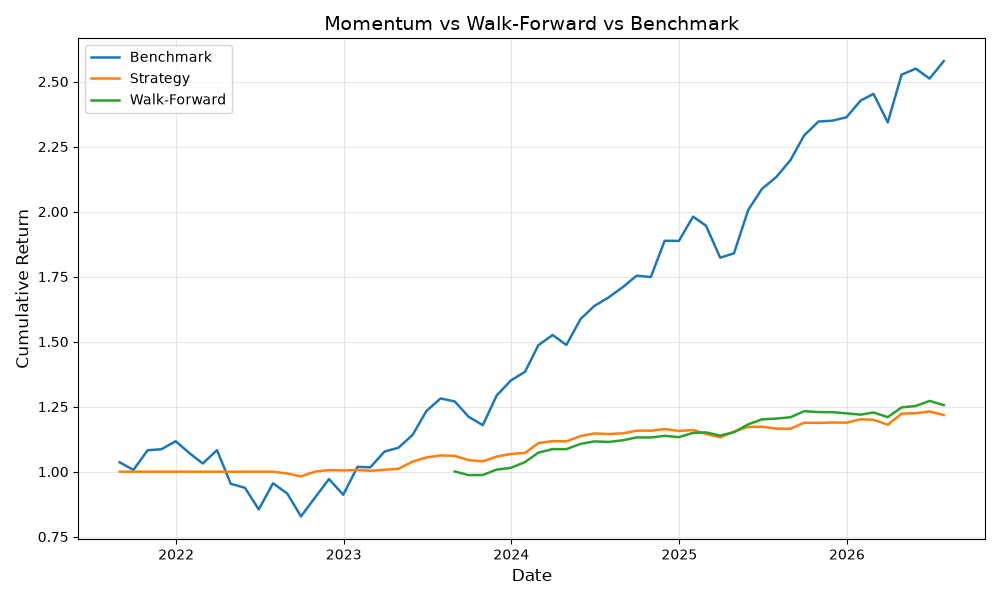
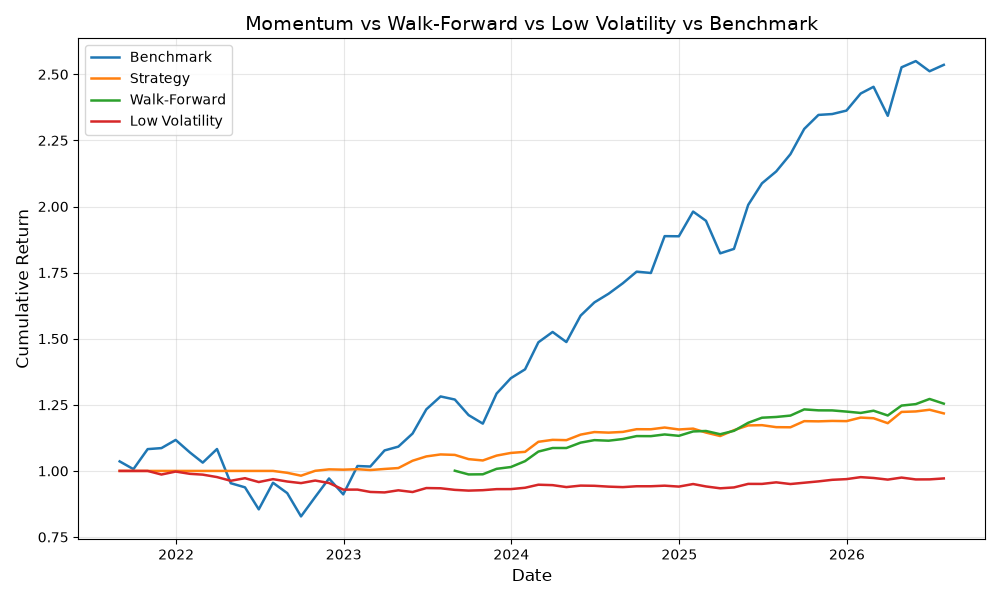
step 5 — update README with low volatility results

diff --git a/metrics.py b/metrics.py
@@ -17,7 +17,10 @@ def max_drawdown(portfolio_values):
  
     return worst_drawdown
  
-def performance_table(strategy_returns, benchmark_returns, wf_returns = None, years = 5):
+def performance_table(strategy_returns, benchmark_returns, wf_returns = None, vol_returns = None, years = 5):
+    cum_wf = None
+    cum_vol = None
+    
     cum_strategy  = (1 + strategy_returns.dropna()).cumprod()
     cum_benchmark = (1 + benchmark_returns.dropna()).cumprod()
  
@@ -40,16 +43,26 @@ def performance_table(strategy_returns, benchmark_returns, wf_returns = None, ye
     })
 
     if wf_returns is not None:
-         cum_wf = (1 + wf_returns.dropna()).cumprod()
+        cum_wf = (1 + wf_returns.dropna()).cumprod()
  
-         total_return_wf = cum_wf.iloc[-1] - 1
-         annualised_return_wf = (cum_wf.iloc[-1] ** (1 / years)) - 1
+        total_return_wf = cum_wf.iloc[-1] - 1
+        annualised_return_wf = (cum_wf.iloc[-1] ** (1 / years)) - 1
 
-         sharpe_wf = sharpe_ratio(wf_returns.dropna())
-         max_drawdown_wf = max_drawdown(cum_wf)
+        sharpe_wf = sharpe_ratio(wf_returns.dropna())
+        max_drawdown_wf = max_drawdown(cum_wf)
  
-         table['Walk-Forward'] = [total_return_wf, annualised_return_wf, sharpe_wf, max_drawdown_wf]
+        table['Walk-Forward'] = [total_return_wf, annualised_return_wf, sharpe_wf, max_drawdown_wf]
 
-         return table, cum_strategy, cum_benchmark, cum_wf
+    if vol_returns is not None:
+        cum_vol = (1 + vol_returns.dropna()).cumprod()
 
-    return table, cum_strategy, cum_benchmark
+        total_return_vol = cum_vol.iloc[-1] - 1
+        annualised_return_vol = (cum_vol.iloc[-1] ** (1 / years)) - 1
+
+        sharpe_vol = sharpe_ratio(vol_returns.dropna())
+        max_drawdown_vol = max_drawdown(cum_vol)
+
+        table['Volatility'] = [total_return_vol, annualised_return_vol, sharpe_vol, max_drawdown_vol]
+
+
+    return table, cum_strategy, cum_benchmark, cum_wf, cum_vol

diff --git a/main.py b/main.py
@@ -1,5 +1,5 @@
 from data import get_prices
-from strategy import run_momentum, walk_forward_test
+from strategy import run_momentum, walk_forward_test, run_low_vol
 from metrics import performance_table
 from plotting import plot_performance
  
@@ -15,8 +15,9 @@ monthly_prices, monthly_returns = get_prices(tickers, period = '5y')
 strategy_returns = run_momentum(monthly_prices, monthly_returns)
 benchmark_returns = monthly_returns.mean(axis = 1)
 wf_returns = walk_forward_test(monthly_prices, monthly_returns)
+vol_returns = run_low_vol(monthly_returns)
 
-table, cum_strategy, cum_benchmark, cum_wf = performance_table(strategy_returns, benchmark_returns, wf_returns)
+table, cum_strategy, cum_benchmark, cum_wf, cum_vol = performance_table(strategy_returns, benchmark_returns, wf_returns, vol_returns)
 print(table)
 
-plot_performance(cum_benchmark, cum_strategy = cum_strategy, cum_wf = cum_wf, title = 'Momentum vs Walk-Forward vs Benchmark', filename = 'performance_v1.png')
+plot_performance(cum_benchmark, cum_strategy = cum_strategy, cum_wf = cum_wf, cum_vol = cum_vol, title = 'Momentum vs Walk-Forward vs Low Volatility vs Benchmark', filename = 'performance_v1.png')

diff --git a/plotting.py b/plotting.py
@@ -2,7 +2,7 @@ import matplotlib.pyplot as plt
 import os
  
  
-def plot_performance(cum_benchmark, cum_strategy = None, cum_wf = None, strategy_label = 'Strategy', title = 'Strategy vs Benchmark Cumulative Performance', filename = 'performance.png'):
+def plot_performance(cum_benchmark, cum_strategy = None, cum_wf = None, cum_vol = None, strategy_label = 'Strategy', title = 'Strategy vs Benchmark Cumulative Performance', filename = 'performance.png'):
     fig, ax = plt.subplots(figsize = (10, 6))
  
     ax.plot(cum_benchmark, label = 'Benchmark', linewidth = 1.8)
@@ -12,6 +12,9 @@ def plot_performance(cum_benchmark, cum_strategy = None, cum_wf = None, strategy
  
     if cum_wf is not None:
         ax.plot(cum_wf, label = 'Walk-Forward', linewidth = 1.8)
+ 
+    if cum_vol is not None:
+        ax.plot(cum_vol, label = 'Low Volatility', linewidth = 1.8)
  
     ax.set_title(title, fontsize = 14)
     ax.set_xlabel('Date', fontsize = 12)

diff --git a/README.md b/README.md
@@ -1,68 +1,79 @@
-# Equity Backtesting Engine — v1 (In Progress)
- 
+# Equity Backtesting Engine — v1
+
 This is a momentum-based equity backtesting engine built in Python. It works by buying the top 3 performing stocks by a 12-month return each month and it rebalances monthly.
- 
+
 ## How it works
- 
+
 Each month, the strategy ranks stocks by their 12-month returns. The top 3 performing stocks are then bought equally weighted and held for a month. At the end of the month, the strategy rebalances by selling the current holdings and buying the new top 3 performing stocks, and a 0.1% transactional cost is applied each time holdings change.
- 
+
 The signal is shifted by one month to avoid lookahead bias, so last month's momentum would decide this month's holdings.
- 
+
 **New in v1 — Walk-Forward Testing:** rather than training and testing the signal on the same fixed period, the strategy now trains on a rolling 24-month window and tests on the following 6 months, sliding forward through the entire dataset. This simulates genuinely not knowing the future at each decision point, giving a more honest measure of whether the momentum signal holds up out-of-sample.
- 
-**Coming next in v1 — Low Volatility Signal:** a second, independent signal ranking stocks by 30-day rolling volatility, to be tested alongside momentum before the two are properly combined into a composite ranking in v2.
- 
+
+**New in v1 — Low Volatility Signal:** a second, independent signal ranking stocks by rolling volatility, holding the 3 least volatile stocks each month instead of the highest momentum stocks. This is tested independently alongside momentum, before the two are properly combined into a composite ranking in v2.
+
 ## Universe
- 
+
 **v0 (10 stocks):** AAPL, MSFT, NVDA, AMZN, GOOGL, META, TSLA, JPM, V, NFLX (Apple, Microsoft, Nvidia, Amazon, Google, Meta, Tesla, JP Morgan, Visa, Netflix)
- 
+
 **v1 (20 stocks):** expanded to include JNJ, PFE, XOM, CAT, COST, WMT, BA, GE, PG, AXP (Johnson & Johnson, Pfizer, Exxon Mobil, Caterpillar, Costco, Walmart, Boeing, General Electric, Procter & Gamble, American Express)
- 
+
 ## v0 Results (June 2023 – June 2026)
- 
+
 | Metric             | Strategy | Benchmark |
 |--------------------|----------|-----------|
 | Total Return       | 15.7%    | 111.9%    |
 | Annualised Return  | 5.0%     | 28.5%     |
 | Sharpe Ratio       | 0.86     | 1.46      |
 | Max Drawdown       | -5.4%    | -13.2%    |
- 
+
 ![v0 Performance](performance_v0.png)
- 
-## v1 Results So Far (5 years, 20 stocks)
- 
-| Metric             | Strategy | Benchmark | Walk-Forward |
-|--------------------|----------|-----------|---------------|
-| Total Return        | 21.8%    | 157.9%    | 25.6%          |
-| Annualised Return    | 4.0%     | 20.9%     | 4.7%           |
-| Sharpe Ratio         | 1.08     | 1.16      | 1.83           |
-| Max Drawdown          | -2.8%    | -25.9%    | -1.9%          |
- 
+
+## v1 Results (July 2021 – June 2026)
+
+| Metric             | Strategy | Benchmark | Walk-Forward | Low Volatility |
+|--------------------|----------|-----------|---------------|-----------------|
+| Total Return        | 21.8%    | 153.6%    | 25.4%          | -2.8%            |
+| Annualised Return    | 4.0%     | 20.5%     | 4.6%           | -0.6%            |
+| Sharpe Ratio         | 1.08     | 1.14      | 1.81           | -0.19            |
+| Max Drawdown          | -2.8%    | -25.9%    | -1.9%          | -8.1%            |
+
 ![v1 Performance](performance_v1.png)
- 
+
 ## Observations
- 
+
 **v0 Observations**
- 
+
 The momentum strategy significantly underperformed the equal-weight benchmark over the 3-year period (15.7% vs 111.9% total return). However, the strategy had a considerably lower max drawdown (-5.4% vs -13.2%), suggesting it was more conservative in avoiding large losses.
- 
+
 The Sharpe ratio (0.86) indicates the strategy generated modest risk-adjusted returns but still fell short of the benchmark (1.46). This is likely due to the limited universe of 10 stocks and the simple 12-month momentum signal without additional filters.
- 
-**v1 Observations**
- 
-Expanding the universe to 20 stocks and running over 5 years, the in-sample momentum strategy still underperforms the benchmark in raw returns (21.8% vs 157.9%), but continues to show a considerably lower max drawdown (-2.8% vs -25.9%) — the strategy trades return for stability.
- 
-The walk-forward out-of-sample results are the more interesting finding here. Despite only having access to information available at each point in time, the walk-forward strategy actually achieved a higher Sharpe ratio (1.83) than both the in-sample strategy (1.08) and the benchmark (1.16), alongside the lowest max drawdown of the three (-1.9%). This suggests the momentum signal is not simply overfitted to one fixed historical period — it holds up reasonably well when forced to make decisions using only past information, which is a genuinely encouraging sign for the strategy's robustness.
- 
-That said, both the strategy and walk-forward versions still lag the benchmark's raw returns significantly. This is likely because momentum alone is a weak standalone signal, and a 20-stock universe with only one factor leaves a lot of alpha on the table compared to simply holding the market. The low volatility signal currently in progress will test whether a second factor improves this picture.
- 
+
+**v1 Momentum Observations**
+
+Expanding the universe to 20 stocks and running over 5 years, the in-sample momentum strategy still underperforms the benchmark in raw returns (21.8% vs 157.9%), but continues to show a considerably lower max drawdown (-2.8% vs -25.9%). The strategy trades return for stability.
+
+That said, the strategy still lags the benchmark's raw returns significantly. This is likely because momentum alone is a weak standalone signal, and a 20-stock universe with only one factor leaves a lot of alpha on the table compared to simply holding the market.
+
+**Walk-Forward Observations**
+
+The walk-forward out-of-sample results are the more interesting finding here. Despite only having access to information available at each point in time, the walk-forward strategy actually achieved a higher Sharpe ratio (1.81) than both the in-sample strategy (1.08) and the benchmark (1.14), alongside the lowest max drawdown of the three (-1.9%). This suggests the momentum signal is not simply overfitted to one fixed historical period, it holds up reasonably well when forced to make decisions using only past information, which is a genuinely encouraging sign for the strategy's robustness.
+
+**Low Volatility Observations**
+
+The low volatility signal, tested on its own, performed poorly across every metric, a negative total return (-2.8%), a negative Sharpe ratio (-0.19), and the second-worst max drawdown of the four results (-8.1%). Unlike momentum, holding the least volatile stocks each month did not generate positive risk-adjusted returns in isolation over this period.
+
+A likely explanation is that low volatility on its own is not a return-generating signal, because it's a risk-reducing one. Stocks with low rolling volatility are not necessarily good investments, they are simply stable ones, and stability alone doesn't guarantee positive performance, particularly in a period where the broader benchmark was driven by strong growth in a small number of higher-volatility stocks. The 3-month rolling window may also be too short to estimate volatility reliably, introducing noise into which stocks get selected each month.
+
+This result doesn't suggest low volatility is a bad concept, but it does suggest it isn't useful as a standalone strategy in this universe and timeframe. It reinforces why low volatility is typically combined with a genuine return-generating signal like momentum, rather than used alone, and makes the v2 composite signal a genuinely important next test rather than an assumed improvement.
+
 ## How to run
- 
+
 pip install yfinance pandas matplotlib
- 
+
 python main.py
- 
-## What's next
- 
-- Finish the low volatility signal and test it independently alongside momentum (v1)
-- Combine momentum and low volatility into a proper composite signal, add a value factor, and run factor regressions once the Probability & Statistics module is complete (v2)
+
+## What's next (v2)
+
+- Combine momentum and low volatility into a proper composite signal
+- Add a value factor
+- Run factor regressions and information coefficient analysis once ST120-10 Introduction to Probability is complete in my first year of university